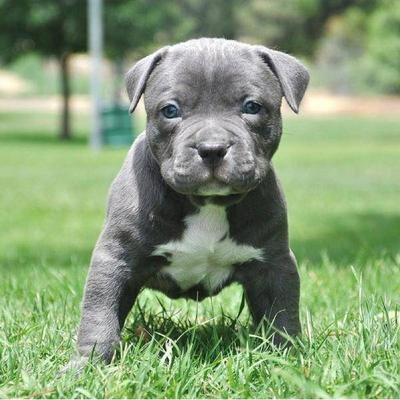
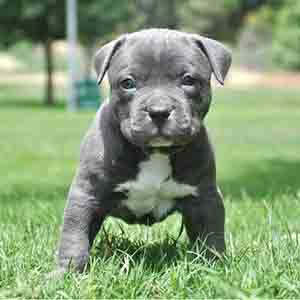
max width edit

diff --git a/static/style_pit.css b/static/style_pit.css
@@ -51,6 +51,5 @@ h4 {
 }
 img{
     margin: auto 0;
-    width: 200px;
-    height: 200px;
+    max-width: 300px;
 }
